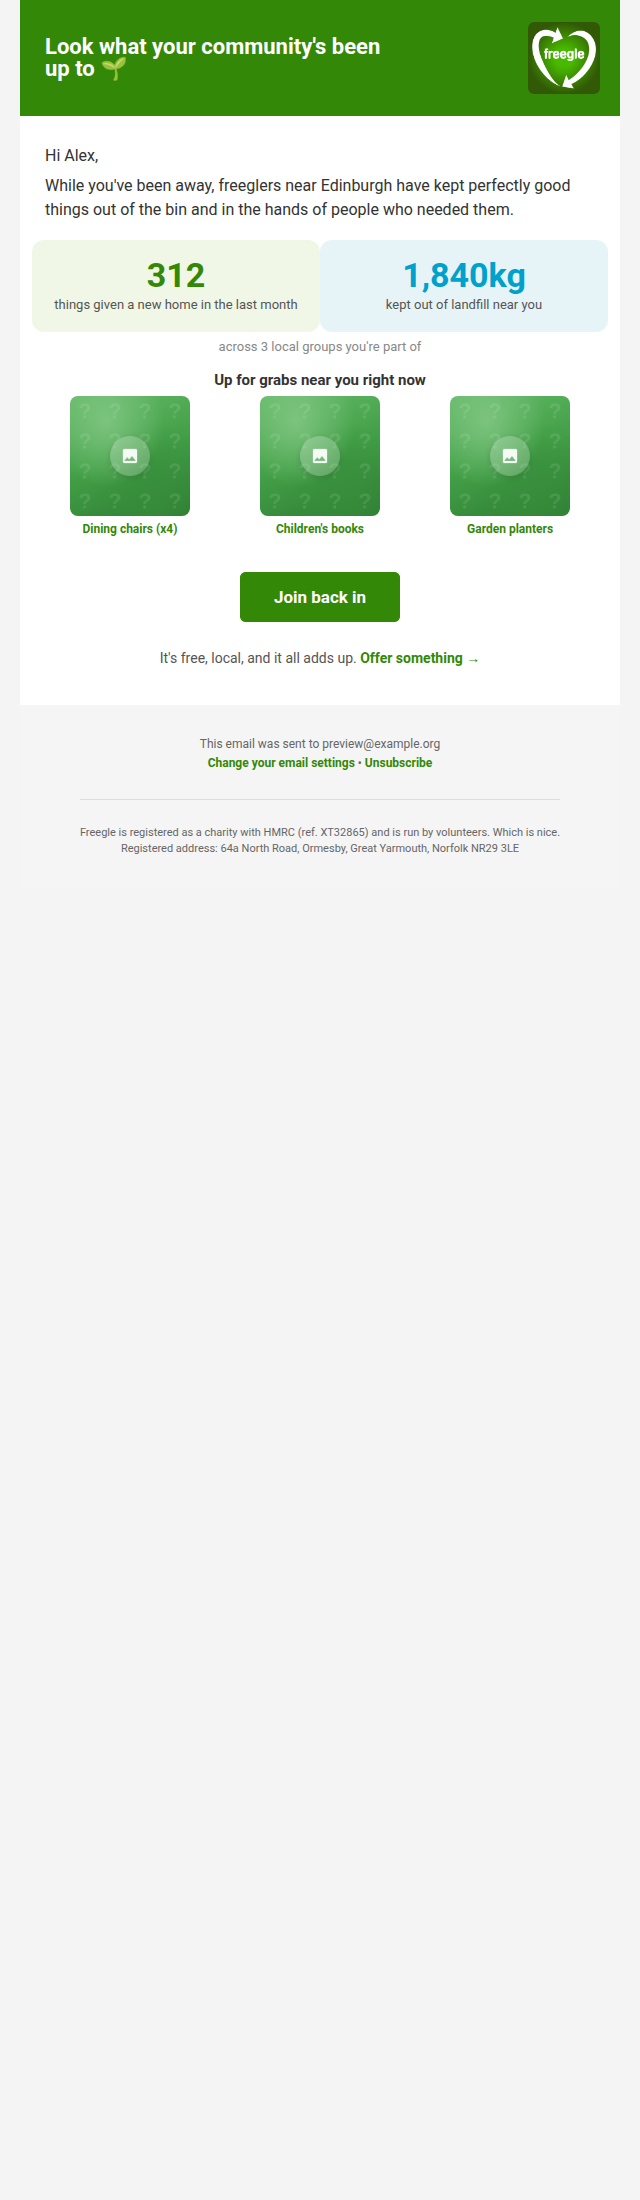
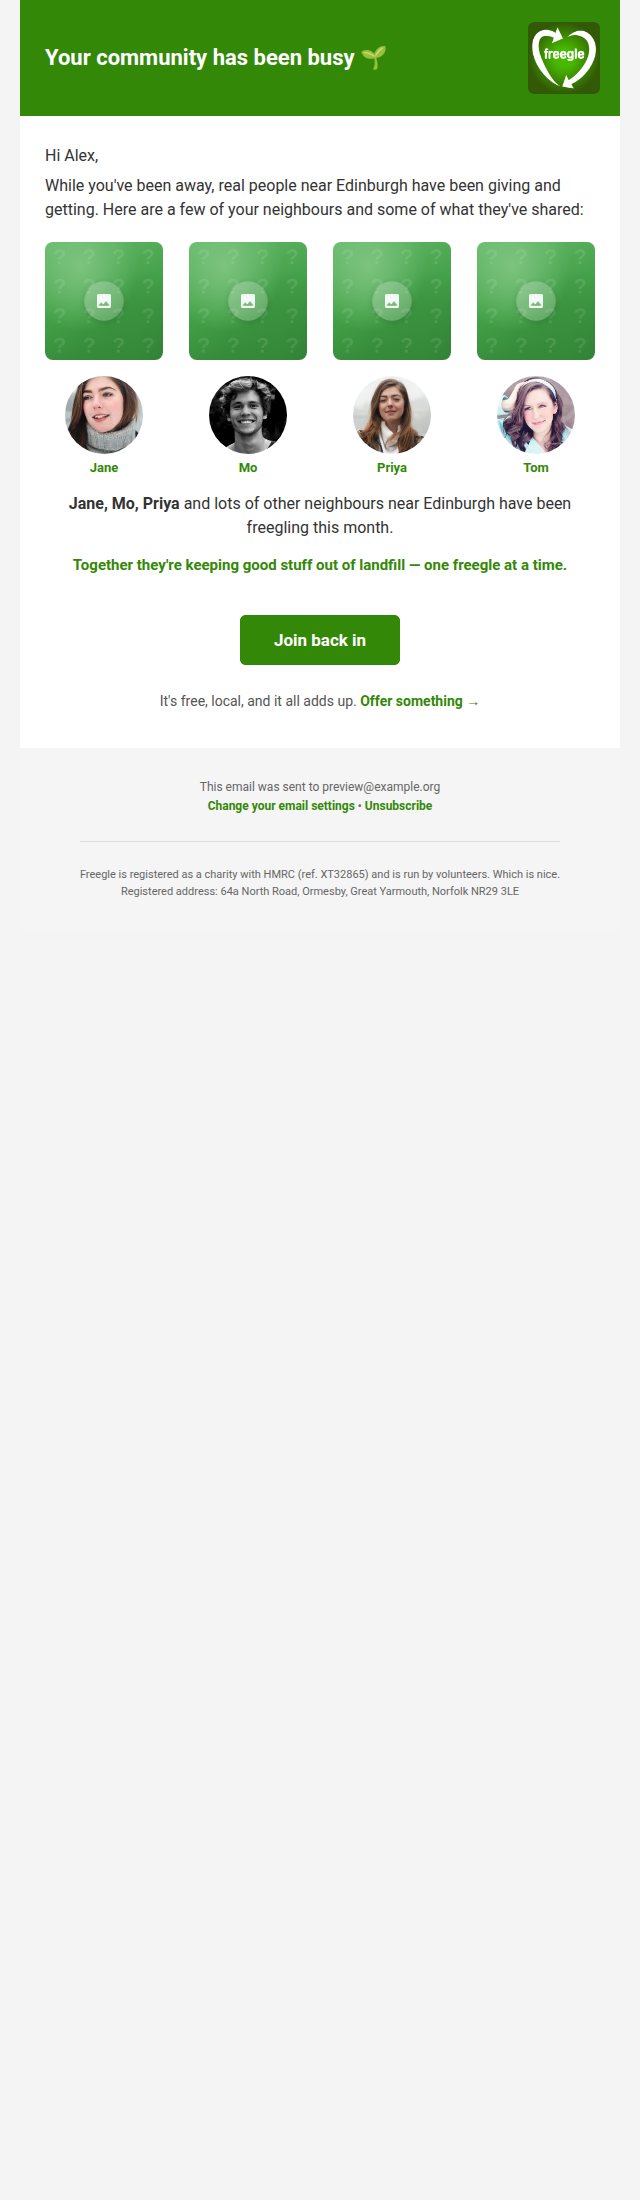
feat(reengage): stage 2 as a people + items collage, not stat counters
Abstract counters (items rehomed / kg saved) don't engage. Replace stage 2's
stat badges with a collage of real neighbours — circular avatars + first names
of recent nearby posters who have a profile photo — alongside item photos of
what they've shared, plus a names sentence and a qualitative impact line. Same
public wall data freeglers already see in-app; avatar-uploaders only, first
names only; degrades to items-only / generic copy when faces or photos are
missing.

Subject becomes people-oriented ("Your neighbours near X have been freegling").
Drops the stats-table impact query. Render tests updated (collage + empty-faces
fallback); 25/25 green.

Changed region(s): [[0.0312, 0.0618, 0.9688, 0.4018], [0.0625, 0.0, 0.5938, 0.0309], [0.8438, 0.3709, 0.875, 0.4018]]

diff --git a/iznik-batch/resources/views/emails/mjml/reengage/impact.blade.php b/iznik-batch/resources/views/emails/mjml/reengage/impact.blade.php
@@ -1,17 +1,19 @@
 {{--
-  Re-engagement sequence — stage 2 of 3: "your community's impact".
-  Localised collective impact (items rehomed, weight saved from landfill) is a
-  strong belonging/mission lever for charity win-back. One clear primary CTA.
+  Re-engagement sequence — stage 2 of 3: the local community as a COLLAGE of
+  real people (neighbour avatars + first names) and the things they've shared
+  (item photos), instead of abstract stat counters. All public wall data; only
+  neighbours who uploaded an avatar are shown, first names only. Degrades to an
+  items-only / generic version when faces or photos aren't available.
 --}}
 <mjml>
-  @include('emails.mjml.partials.head', ['preview' => $hasImpact ? "Your community saved " . number_format($impactWeightKg) . "kg from landfill recently" : 'See the difference your local community is making'])
+  @include('emails.mjml.partials.head', ['preview' => 'See who has been freegling near ' . $areaLabel])
   <mj-body background-color="#f4f4f4">
 
     {{-- Header band with logo --}}
     <mj-section mj-class="bg-success" padding="22px 0">
       <mj-column width="68%" vertical-align="middle">
         <mj-text font-size="22px" font-weight="bold" color="#ffffff" padding="0 25px">
-          Look what your community's been up to 🌱
+          Your community has been busy 🌱
         </mj-text>
       </mj-column>
       <mj-column width="32%" vertical-align="middle">
@@ -26,71 +28,57 @@
           Hi {{ $name }},
         </mj-text>
         <mj-text font-size="16px" color="#333333" padding="0 25px" line-height="1.5">
-          While you've been away, freeglers near {{ $areaLabel }} have kept perfectly good things out of the bin and in the hands of people who needed them.
+          While you've been away, real people near {{ $areaLabel }} have been giving and getting. Here are a few of your neighbours and some of what they've shared:
         </mj-text>
       </mj-column>
     </mj-section>
 
-    @if($hasImpact)
-    {{-- Impact stat badges --}}
-    <mj-section background-color="#ffffff" padding="14px 12px 6px">
-      <mj-column width="50%" background-color="#f0f7e6" border-radius="12px" padding="18px 8px">
-        <mj-text align="center" font-size="34px" font-weight="bold" color="#338808" padding="0">
-          {{ number_format($impactOutcomes) }}
-        </mj-text>
-        <mj-text align="center" font-size="13px" color="#555555" padding="4px 6px 0" line-height="1.4">
-          things given a new home in the last month
-        </mj-text>
-      </mj-column>
-      <mj-column width="50%" background-color="#e6f4f8" border-radius="12px" padding="18px 8px">
-        <mj-text align="center" font-size="34px" font-weight="bold" color="#00A1CB" padding="0">
-          {{ number_format($impactWeightKg) }}kg
-        </mj-text>
-        <mj-text align="center" font-size="13px" color="#555555" padding="4px 6px 0" line-height="1.4">
-          kept out of landfill near you
-        </mj-text>
-      </mj-column>
-    </mj-section>
-    <mj-section background-color="#ffffff" padding="2px 0 6px">
-      <mj-column>
-        <mj-text align="center" font-size="13px" color="#888888" padding="0 25px">
-          across {{ $impactGroups }} local {{ \Illuminate\Support\Str::plural('group', $impactGroups) }} you're part of
-        </mj-text>
-      </mj-column>
-    </mj-section>
-    @else
-    <mj-section background-color="#ffffff" padding="10px 0 6px">
-      <mj-column>
-        <mj-text align="center" font-size="17px" color="#338808" font-weight="bold" padding="6px 25px" line-height="1.5">
-          Every day, your local Freegle groups quietly keep usable things out of the bin — one freegle at a time.
-        </mj-text>
-      </mj-column>
-    </mj-section>
-    @endif
-
-    {{-- A couple of live nearby items, if we have them --}}
+    {{-- Item photos --}}
     @if(!empty($offers))
-    <mj-section background-color="#ffffff" padding="14px 0 2px">
-      <mj-column>
-        <mj-text font-size="15px" font-weight="bold" color="#333333" align="center" padding="0 25px">
-          Up for grabs near you right now
-        </mj-text>
-      </mj-column>
-    </mj-section>
-    <mj-section background-color="#ffffff" padding="6px 12px 4px">
-      @foreach(array_slice($offers, 0, 3) as $offer)
-      <mj-column width="33%" padding="0 4px">
-        <mj-image src="{{ $offer['thumbnail_url'] ?? config('freegle.images.offer_placeholder') }}" href="{{ $offer['url'] }}" alt="{{ $offer['subject'] }}" width="120px" border-radius="8px" padding="0" />
-        <mj-text font-size="12px" color="#338808" align="center" font-weight="bold" padding="6px 4px 0" line-height="1.3">
-          {{ $offer['subject'] }}
-        </mj-text>
+    <mj-section background-color="#ffffff" padding="16px 12px 4px">
+      @foreach(array_slice($offers, 0, 4) as $offer)
+      <mj-column width="25%" padding="0 4px">
+        <mj-image src="{{ $offer['thumbnail_url'] ?? config('freegle.images.offer_placeholder') }}" href="{{ $offer['url'] }}" alt="{{ $offer['subject'] }}" width="118px" border-radius="8px" padding="0" />
       </mj-column>
       @endforeach
     </mj-section>
     @endif
 
+    {{-- Neighbour avatars + first names --}}
+    @if(!empty($faces))
+    <mj-section background-color="#ffffff" padding="12px 12px 2px">
+      @foreach(array_slice($faces, 0, 4) as $face)
+      <mj-column width="25%" padding="0 4px">
+        <mj-image src="{{ $face['avatar'] }}" alt="{{ $face['name'] }}" width="78px" border-radius="50%" padding="0" />
+        <mj-text align="center" font-size="13px" font-weight="bold" color="#338808" padding="7px 2px 0">
+          {{ $face['name'] }}
+        </mj-text>
+      </mj-column>
+      @endforeach
+    </mj-section>
+
+    {{-- Names sentence --}}
+    <mj-section background-color="#ffffff" padding="10px 0 2px">
+      <mj-column>
+        @php $shownNames = array_map(fn ($f) => $f['name'], array_slice($faces, 0, 3)); @endphp
+        <mj-text font-size="16px" color="#333333" align="center" padding="6px 25px" line-height="1.5">
+          <strong>{{ implode(', ', $shownNames) }}</strong> and lots of other neighbours near {{ $areaLabel }} have been freegling this month.
+        </mj-text>
+      </mj-column>
+    </mj-section>
+    @endif
+
+    {{-- Soft, qualitative impact (no counters) --}}
+    <mj-section background-color="#ffffff" padding="2px 0 6px">
+      <mj-column>
+        <mj-text font-size="15px" color="#338808" font-weight="bold" align="center" padding="4px 25px" line-height="1.5">
+          Together they're keeping good stuff out of landfill — one freegle at a time.
+        </mj-text>
+      </mj-column>
+    </mj-section>
+
     {{-- Primary CTA --}}
-    <mj-section background-color="#ffffff" padding="20px 0 6px">
+    <mj-section background-color="#ffffff" padding="18px 0 6px">
       <mj-column>
         <mj-button mj-class="btn-success" href="{{ $findUrl }}" border-radius="6px" font-size="17px" font-weight="bold" inner-padding="15px 34px">
           Join back in

diff --git a/iznik-batch/app/Services/ReengageContentService.php b/iznik-batch/app/Services/ReengageContentService.php
@@ -2,7 +2,6 @@
 
 namespace App\Services;
 
-use App\Models\Group;
 use App\Models\Message;
 use App\Models\User;
 use Illuminate\Support\Facades\DB;
@@ -57,7 +56,9 @@ class ReengageContentService
 
         return match ($template) {
             'nearby'      => array_merge($base, $this->nearbyContent($user)),
-            'impact'      => array_merge($base, $this->impactContent($user), $this->nearbyContent($user, 3)),
+            // Stage 2 is a people-and-items collage, not stat counters: item
+            // photos (offers) + neighbour avatars/first names (faces).
+            'impact'      => array_merge($base, $this->nearbyContent($user, 4), ['faces' => $this->nearbyFaces($user)]),
             'preferences' => array_merge($base, $this->nearbyContent($user, 0)),
             default       => $base,
         };
@@ -100,16 +101,16 @@ class ReengageContentService
             'hasLocation' => true,
         ];
 
-        $impact = [
-            'impactOutcomes' => 312,
-            'impactWeightKg' => 1840,
-            'impactGroups'   => 3,
-            'hasImpact'      => true,
+        $sampleFaces = [
+            ['name' => 'Jane',  'avatar' => 'https://i.pravatar.cc/150?img=5'],
+            ['name' => 'Mo',    'avatar' => 'https://i.pravatar.cc/150?img=12'],
+            ['name' => 'Priya', 'avatar' => 'https://i.pravatar.cc/150?img=32'],
+            ['name' => 'Tom',   'avatar' => 'https://i.pravatar.cc/150?img=45'],
         ];
 
         return match ($template) {
             'nearby'      => array_merge($base, $nearby),
-            'impact'      => array_merge($base, $impact, ['offers' => $sampleOffers->take(3)->all(), 'offerCount' => 47, 'hasLocation' => true]),
+            'impact'      => array_merge($base, ['offers' => $sampleOffers->all(), 'offerCount' => 47, 'hasLocation' => true, 'faces' => $sampleFaces]),
             'preferences' => array_merge($base, ['offers' => [], 'offerCount' => 47, 'hasLocation' => true]),
             default       => $base,
         };
@@ -159,42 +160,61 @@ class ReengageContentService
     }
 
     /**
-     * Local impact totals over the user's member Freegle groups: items given
-     * away (Outcomes) and estimated weight saved (Weight) in the last 30 days.
+     * Real neighbours for the stage-2 collage: recent nearby posters who have
+     * uploaded a profile photo, returned as first name + avatar URL. This is
+     * the same public wall data freeglers already see in-app; we only include
+     * users who chose to add an avatar, and show first names only.
      *
-     * @return array{impactOutcomes: int, impactWeightKg: int, impactGroups: int, hasImpact: bool}
+     * @return array<int, array{name: string, avatar: string}>
      */
-    private function impactContent(User $user): array
+    private function nearbyFaces(User $user, int $limit = 6): array
     {
-        $groupIds = DB::table('memberships')
-            ->join('groups', 'groups.id', '=', 'memberships.groupid')
-            ->where('memberships.userid', $user->id)
-            ->where('groups.type', Group::TYPE_FREEGLE)
-            ->pluck('groups.id')
-            ->all();
-
-        if (empty($groupIds)) {
-            return ['impactOutcomes' => 0, 'impactWeightKg' => 0, 'impactGroups' => 0, 'hasImpact' => false];
+        [$lat, $lng] = $this->resolveLatLng($user);
+        if ($lat === null || $lng === null) {
+            return [];
         }
 
-        $since = now()->subDays(self::IMPACT_DAYS)->toDateString();
+        $deg = self::NEARBY_RADIUS_KM / 111.0;
 
-        $row = DB::table('stats')
-            ->whereIn('groupid', $groupIds)
-            ->where('date', '>=', $since)
-            ->selectRaw("COALESCE(SUM(CASE WHEN type = 'Outcomes' THEN count END), 0) AS outcomes")
-            ->selectRaw("COALESCE(SUM(CASE WHEN type = 'Weight' THEN count END), 0) AS weight")
-            ->first();
+        $userIds = Message::query()
+            ->offers()
+            ->approved()
+            ->notDeleted()
+            ->withLocation()
+            ->recent(self::IMPACT_DAYS)
+            ->whereBetween('lat', [$lat - $deg, $lat + $deg])
+            ->whereBetween('lng', [$lng - $deg, $lng + $deg])
+            ->whereNotNull('fromuser')
+            ->orderByDesc('arrival')
+            ->limit($limit * 5)
+            ->pluck('fromuser')
+            ->unique()
+            ->take($limit * 3)
+            ->all();
 
-        $outcomes = (int) ($row->outcomes ?? 0);
-        $weightKg = (int) round((float) ($row->weight ?? 0));
+        if (empty($userIds)) {
+            return [];
+        }
 
-        return [
-            'impactOutcomes' => $outcomes,
-            'impactWeightKg' => $weightKg,
-            'impactGroups'   => count($groupIds),
-            'hasImpact'      => $outcomes > 0 || $weightKg > 0,
-        ];
+        $faces = [];
+        foreach (User::whereIn('id', $userIds)->get() as $poster) {
+            $avatar = $poster->getProfileImageUrl();
+            if (!$avatar) {
+                continue;
+            }
+
+            $first = trim((string) explode(' ', trim((string) $poster->display_name))[0]);
+            if ($first === '' || $first === 'Freegle') {
+                continue;
+            }
+
+            $faces[] = ['name' => $first, 'avatar' => $avatar];
+            if (count($faces) >= $limit) {
+                break;
+            }
+        }
+
+        return $faces;
     }
 
     /**

diff --git a/iznik-batch/tests/Unit/Mail/ReengageMailRenderTest.php b/iznik-batch/tests/Unit/Mail/ReengageMailRenderTest.php
@@ -26,13 +26,29 @@ class ReengageMailRenderTest extends TestCase
         $this->assertStringContainsString('alex@example.com', $html);     // footer recipient line
     }
 
-    public function test_impact_template_renders_stats(): void
+    public function test_impact_template_renders_people_collage(): void
     {
         $html = view('emails.mjml.reengage.impact', $this->data('impact'))->render();
 
-        $this->assertStringContainsString('312', $html);   // items rehomed
-        $this->assertStringContainsString('1,840kg', $html); // weight saved (number_format)
+        // Neighbour names + avatars (the collage), not stat counters.
+        $this->assertStringContainsString('Jane', $html);
+        $this->assertStringContainsString('i.pravatar.cc', $html);     // an avatar image
+        $this->assertStringContainsString('Dining chairs', $html);     // an item photo caption/alt
         $this->assertStringContainsString('Join back in', $html);
+        // The old abstract stat counters should be gone.
+        $this->assertStringNotContainsString('kept out of landfill near you', $html);
+    }
+
+    public function test_impact_collage_omits_face_row_without_avatars(): void
+    {
+        $data = array_merge($this->data('impact'), ['faces' => []]);
+
+        $html = view('emails.mjml.reengage.impact', $data)->render();
+
+        // Still a valid email with the CTA, just no neighbour row.
+        $this->assertStringContainsString('<mjml>', $html);
+        $this->assertStringContainsString('Join back in', $html);
+        $this->assertStringNotContainsString('i.pravatar.cc', $html);
     }
 
     public function test_preferences_template_offers_downgrade_and_unsubscribe(): void

diff --git a/iznik-batch/resources/views/emails/text/reengage/impact.blade.php b/iznik-batch/resources/views/emails/text/reengage/impact.blade.php
@@ -1,19 +1,22 @@
 Hi {{ $name }},
 
-While you've been away, freeglers near {{ $areaLabel }} have kept perfectly good things out of the bin and in the hands of people who needed them.
-@if($hasImpact)
+While you've been away, real people near {{ $areaLabel }} have been giving and getting.
+@if(!empty($faces))
 
-In the last month, across {{ $impactGroups }} local {{ \Illuminate\Support\Str::plural('group', $impactGroups) }} you're part of:
-- {{ number_format($impactOutcomes) }} things given a new home
-- {{ number_format($impactWeightKg) }}kg kept out of landfill
+A few of your neighbours freegling this month:
+@foreach(array_slice($faces, 0, 5) as $face)
+- {{ $face['name'] }}
+@endforeach
 @endif
 @if(!empty($offers))
 
-Up for grabs near you right now:
-@foreach(array_slice($offers, 0, 3) as $offer)
+Some of what's been shared near you:
+@foreach(array_slice($offers, 0, 4) as $offer)
 - {{ $offer['subject'] }}: {{ $offer['url'] }}
 @endforeach
 @endif
+
+Together they're keeping good stuff out of landfill — one freegle at a time.
 
 Join back in: {{ $findUrl }}
 Offer something: {{ $giveUrl }}

diff --git a/iznik-batch/app/Services/ReengageService.php b/iznik-batch/app/Services/ReengageService.php
@@ -236,9 +236,9 @@ class ReengageService
             1 => $count > 0 && $area
                 ? number_format($count) . " free things near {$area} this week"
                 : ($area ? "See what's free near {$area}" : "See what's being given away near you"),
-            2 => ($c['hasImpact'] ?? false) && $area
-                ? "Your Freegle community near {$area} has been busy"
-                : "See your local community's impact",
+            2 => $area
+                ? "Your neighbours near {$area} have been freegling"
+                : "See who's been freegling near you",
             3 => 'Shall we stay in touch?',
             default => 'We miss you on Freegle',
         };

diff --git a/plans/2026-06-14-reengagement-emails.md b/plans/2026-06-14-reengagement-emails.md
@@ -57,9 +57,10 @@ so it can ship dark without touching production sending.
 
 1. **`nearby`** — "what's been freegled near you": a count of free items offered
    near the user this week + live item cards. CTA *See what's near you*.
-2. **`impact`** — "your community's impact": items rehomed + weight kept out of
-   landfill over the user's local Freegle groups + a couple of live items.
-   CTA *Join back in*.
+2. **`impact`** — "your community has been busy": a **collage** of real
+   neighbours (avatars + first names) and the things they've shared (item
+   photos), instead of abstract stat counters — concrete and human. CTA *Join
+   back in*.
 3. **`preferences`** — "shall we stay in touch?": honest opt-in confirmation +
    gentle sunset notice. Primary *Keep me freegling* (auto-login), secondary
    *Email me less often*, clear unsubscribe. Doubles as a GDPR consent refresh.
@@ -83,10 +84,11 @@ and the trigger is env-tunable. Refining to an **email-engagement** signal
 (non-opens/clicks of recent digests) is the recommended pre-ramp improvement.
 
 **Localisation.** Lat/lng waterfall (`settings.mylocation` → `lastlocation`);
-area label from the saved location's area name; nearby OFFERs via the existing
-`NearbyOffersService`; impact via the `stats` table over the user's member
-Freegle groups. Everything degrades gracefully — no location still yields a
-sensible (non-localised) email.
+area label from the saved location's area name; nearby OFFERs (item photos) via
+the existing `NearbyOffersService`; the stage-2 collage uses recent nearby
+posters who have uploaded an avatar (first name + profile photo — the same
+public wall data shown in-app). Everything degrades gracefully — no location, no
+avatars, or no photos still yields a sensible email.
 
 **Eligibility / suppression** mirrors the engage flow: approved Freegle
 membership, per-group engagement opt-out honoured, `deleted`/`bouncing`/
